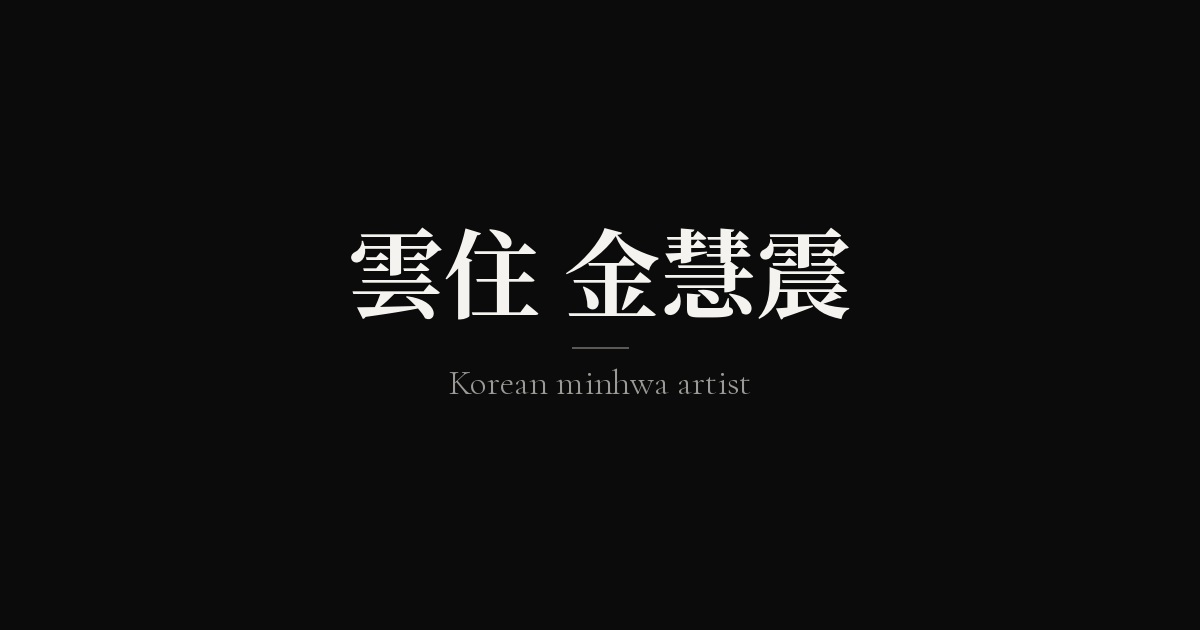
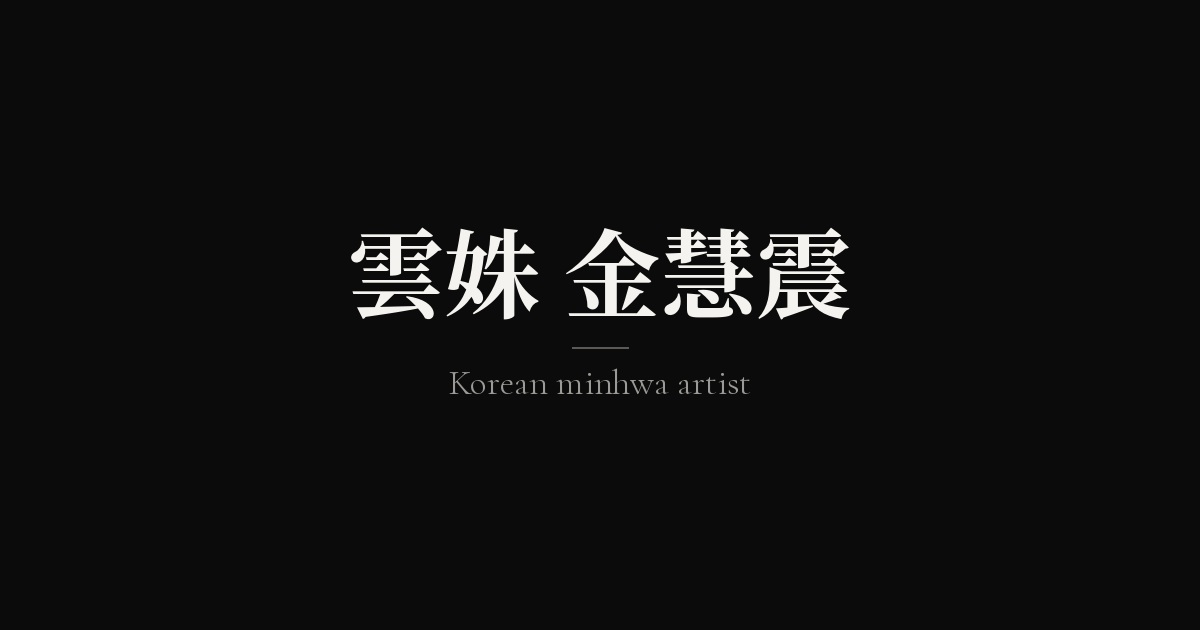
Correct pen-name Hanja from 雲住 to 雲姝.
Replace every 雲住 occurrence with the verified aho spelling 雲姝
and regenerate the default Open Graph plate to match.

Changed region(s): [[0.37, 0.3619, 0.4625, 0.5127]]

diff --git a/lib/content.ts b/lib/content.ts
@@ -122,14 +122,14 @@ export const siteCopy = {
 } as const;
 
 export const pageMeta = {
-  siteName: '雲住 — K-minhwa',
+  siteName: '雲姝 — K-minhwa',
   // Live deployment host until k-minhwa.art is registered and pointed at Vercel.
   // Override with NEXT_PUBLIC_SITE_URL=https://k-minhwa.art after the custom domain resolves.
   siteUrl: 'https://k-minhwa.vercel.app',
   defaultOgImage: '/media/og-default.jpg',
-  defaultOgAlt: '雲住 金慧震 — Korean minhwa artist',
+  defaultOgAlt: '雲姝 金慧震 — Korean minhwa artist',
   artistName: {
-    hanja: '雲住 金慧震',
+    hanja: '雲姝 金慧震',
     hangul: '운주 김혜진',
     en: 'Unjoo Kim Hyejin',
   },
@@ -141,7 +141,7 @@ export const pageMeta = {
     'K-minhwa',
     'minhwa',
     'Korean minhwa',
-    '雲住',
+    '雲姝',
     '金慧震',
     '운주 김혜진',
     'Unjoo Kim Hyejin',
@@ -150,8 +150,8 @@ export const pageMeta = {
   ],
   home: {
     title: {
-      ko: '雲住 — 오래된 상징, 새로운 숨결',
-      en: '雲住 — Old symbols, newly alive',
+      ko: '雲姝 — 오래된 상징, 새로운 숨결',
+      en: '雲姝 — Old symbols, newly alive',
     },
     description: {
       ko: '운주 김혜진의 동시대 민화 아카이브. 전통의 화법과 상징 위에서 새로운 색채와 구성을 선보입니다.',
@@ -160,8 +160,8 @@ export const pageMeta = {
   },
   works: {
     title: {
-      ko: '작품 — 雲住 김혜진',
-      en: 'Works — 雲住 Unjoo Kim Hyejin',
+      ko: '작품 — 雲姝 김혜진',
+      en: 'Works — 雲姝 Unjoo Kim Hyejin',
     },
     description: {
       ko: '운주의 민화 작품 아카이브. 복과 장수, 지혜와 평안의 상징을 오늘의 감각으로 다시 바라봅니다.',
@@ -170,8 +170,8 @@ export const pageMeta = {
   },
   artist: {
     title: {
-      ko: '작가 — 雲住 김혜진',
-      en: 'Artist — 雲住 Unjoo Kim Hyejin',
+      ko: '작가 — 雲姝 김혜진',
+      en: 'Artist — 雲姝 Unjoo Kim Hyejin',
     },
     description: {
       ko: '민화의 전통적 화법과 상징 체계를 바탕으로 작업하는 운주 김혜진의 소개, 이력, 문의.',

diff --git a/app/artist/page.tsx b/app/artist/page.tsx
@@ -24,13 +24,13 @@ export default function Artist() {
   const { artist } = siteCopy;
   return (
     <main>
-      <SiteHeader wordmark="雲住" split edition="" />
+      <SiteHeader wordmark="雲姝" split edition="" />
       <div className="page-intro artist-intro">
         <p className="eyebrow">
           <LocalizedText en={artist.eyebrow.en} ko={artist.eyebrow.ko} />
         </p>
         <p className="artist-name-display">
-          <span className="hanja">雲住 金慧震</span>
+          <span className="hanja">雲姝 金慧震</span>
           <small>운주 김혜진</small>
         </p>
         <h1>
@@ -95,7 +95,7 @@ export default function Artist() {
         </div>
       </section>
       <footer className="site-footer">
-        <span className="hanja">雲住 金慧震</span>
+        <span className="hanja">雲姝 金慧震</span>
         <span> / K—MINHWA</span>
         <Link href="/works">
           <LocalizedText en="WORKS" ko="작품" /> ↗

diff --git a/app/page.tsx b/app/page.tsx
@@ -33,10 +33,10 @@ export default function Home() {
           <HeroMedia />
           <HeroWebgl />
           <HeroParticles />
-          <SiteHeader wordmark="雲住" split edition="" />
+          <SiteHeader wordmark="雲姝" split edition="" />
           <div className="hero-copy">
             <p className="hero-artist-name">
-              <span className="hanja">雲住 金慧震</span>
+              <span className="hanja">雲姝 金慧震</span>
             </p>
             <h1>
               <LocalizedText
@@ -74,7 +74,7 @@ export default function Home() {
             </span>
           </div>
           <p className="sr-only">
-            Hero artwork: a blue-green dragon moving through layered cream and brown clouds, by 雲住 金慧震.
+            Hero artwork: a blue-green dragon moving through layered cream and brown clouds, by 雲姝 金慧震.
           </p>
           <p className="home-colophon">© K-MINHWA UNJOO.</p>
         </section>

diff --git a/app/works/page.tsx b/app/works/page.tsx
@@ -25,10 +25,10 @@ export default function Works() {
   const { works: copy } = siteCopy;
   return (
     <main>
-      <SiteHeader wordmark="雲住" split edition="" />
+      <SiteHeader wordmark="雲姝" split edition="" />
       <div className="page-intro">
         <p className="eyebrow">
-          <LocalizedText en="WORKS / 雲住 金慧震" ko="작품 / 雲住 金慧震" />
+          <LocalizedText en="WORKS / 雲姝 金慧震" ko="작품 / 雲姝 金慧震" />
         </p>
         <h1>
           <LocalizedText
@@ -49,7 +49,7 @@ export default function Works() {
       </div>
       <PublishedWorks />
       <footer className="site-footer">
-        <span className="hanja">雲住 金慧震</span>
+        <span className="hanja">雲姝 金慧震</span>
         <span> / K—MINHWA</span>
         <Link href="/artist">
           <LocalizedText en="ARTIST" ko="작가" /> ↗

diff --git a/app/works/[slug]/page.tsx b/app/works/[slug]/page.tsx
@@ -16,7 +16,7 @@ export async function generateMetadata({ params }: { params: Promise<{ slug: str
   const work = works.find((item) => item.slug === slug);
   if (!work) return {};
   return buildPageMetadata({
-    title: `${work.title.en} · 雲住`,
+    title: `${work.title.en} · 雲姝`,
     description: work.description.en.slice(0, 160),
     path: `/works/${work.slug}`,
     image: work.imageConfirmed ? work.image : undefined,
@@ -36,7 +36,7 @@ export default async function WorkDetail({ params }: { params: Promise<{ slug: s
 
   return (
     <main>
-      <SiteHeader wordmark="雲住" split edition="" />
+      <SiteHeader wordmark="雲姝" split edition="" />
       <section className="detail">
         <div className={`detail-image art-image${work.imageConfirmed ? '' : ' art-image--plate'}`}>
           {work.image.endsWith('.svg') ? (

diff --git a/INTERACTION_GUIDE.md b/INTERACTION_GUIDE.md
@@ -10,7 +10,7 @@ The live page has a persistent compact header, oversized statement typography, l
 - Image reactions: artwork may start with a grayscale veil; hover/focus restores color in 240–420ms and allows max 1.02 scale. Keep crop and all metadata stationary.
 - Background: black canvas remains stable. Optional grayscale grain or luminance shift must be near imperceptible and never compete with a colored artwork.
 - Scroll transitions: labels and text may reveal with 12–24px translation and opacity; large images may use a clip or max 1.03 scale. Duration: 400–700ms. Avoid scroll-jacking. Native scroll is always preserved.
-- Header: persistent split chrome on public routes (home, works, artist, work detail). Work/Artist are the only primary destinations. Admin keeps a separate non-split bar and is not public navigation. The chrome splits into two inset pills: mark + menu on the left, locale toggle on the right. Wordmark is `雲住`.
+- Header: persistent split chrome on public routes (home, works, artist, work detail). Work/Artist are the only primary destinations. Admin keeps a separate non-split bar and is not public navigation. The chrome splits into two inset pills: mark + menu on the left, locale toggle on the right. Wordmark is `雲姝`.
 - Footer: sparse closing panel with mark, location/year, and one onward link; no sitemap wall. The home route has no footer bar; a colophon `© K-MINHWA UNJOO.` sits at the bottom inset.
 - Typography: H1 is the visual event. Home English uses Cormorant Garamond (`Old symbols, newly alive.` with selective italic). Home Korean uses Nanum Myeongjo (`오래된 상징, 새로운 숨결`) with no italic. Hanja always uses Nanum Myeongjo. H2 is a quieter editorial anchor; mono labels provide cataloguing. Keep body measure under ~40rem.
 - Home chrome: both home pills use `border-radius: 999px` and share the same inset as the top edge (18px desktop, 12px mobile). The locale pill’s inner padding is equal on all sides after accounting for the 1px border (7px desktop / 5px mobile around a 42px / 40px toggle). Locale labels use ISO 639-1 (`EN` / `KO`). On desktop, the supporting line and archive CTA sit on the right edge (`right: 6vw`); on mobile they left-align to the main copy column (`left: 5vw`). Hangul `운주 김혜진` is reserved for the artist page.

diff --git a/DESIGN_SYSTEM.md b/DESIGN_SYSTEM.md
@@ -4,7 +4,7 @@
 `#0B0B0B` black canvas · `#F4F3EF` warm white type · `#9B9A96` secondary text · `rgba(244,243,239,.22)` hairlines. No UI color accents.
 
 ## Type
-Manrope is the workhorse sans for navigation and body copy. DM Mono is used for metadata, indexes, and utility labels. The home statement is 명조: Cormorant Garamond for Latin display lines (selective italic on a secondary phrase) and Nanum Myeongjo for Hangul (never italic). Hanja (`雲住`, `金慧震`) uses Nanum Myeongjo in both locales. Display type is fluid with a negative tracking value and compact line-height. The home wordmark is `雲住`. Hangul artist naming (`운주 김혜진`) is reserved for the artist page.
+Manrope is the workhorse sans for navigation and body copy. DM Mono is used for metadata, indexes, and utility labels. The home statement is 명조: Cormorant Garamond for Latin display lines (selective italic on a secondary phrase) and Nanum Myeongjo for Hangul (never italic). Hanja (`雲姝`, `金慧震`) uses Nanum Myeongjo in both locales. Display type is fluid with a negative tracking value and compact line-height. The home wordmark is `雲姝`. Hangul artist naming (`운주 김혜진`) is reserved for the artist page.
 
 ## Layout
 Desktop uses a 12-column grid with 3vw gutters. Editorial modules can intentionally offset or span partial columns. Mobile collapses to a single image column with generous vertical pacing. Spacing units are based on viewport width for exhibition-scale breathing room: 3vw utility, 6vw section edge, 10–16vw editorial separation.

diff --git a/PROJECT.md b/PROJECT.md
@@ -5,7 +5,7 @@ K-minhwa is a contemporary portfolio and moving archive for a Korean minhwa arti
 
 ## Information architecture
 
-- `/` — cinematic homepage for the 雲住 portfolio: hero statement, selected works entry, artist entry point.
+- `/` — cinematic homepage for the 雲姝 portfolio: hero statement, selected works entry, artist entry point.
 - `/works` — editorial index of all works with year, medium, and image-led composition.
 - `/works/[slug]` — work detail with primary media, metadata, and contextual text.
 - `/artist` — statement, biography, exhibitions, awards, and collections.
@@ -23,7 +23,7 @@ No stock image may be presented as a K-minhwa artwork. Until original artwork ph
 - Canonical host: currently `https://k-minhwa.vercel.app` (override with `NEXT_PUBLIC_SITE_URL`).
 - Custom domain `k-minhwa.art` is the intended brand host once registered and attached in Vercel Domains; until DNS resolves, share metadata must not point at it.
 - Favicon / app icons: black field with white Hanja `金`.
-- Default Open Graph image (`/media/og-default.jpg`): black field, centered `雲住 金慧震`, English tagline `Korean minhwa artist`.
+- Default Open Graph image (`/media/og-default.jpg`): black field, centered `雲姝 金慧震`, English tagline `Korean minhwa artist`.
 - Page metadata, sitemap, robots, and JSON-LD emit absolute URLs so shared links resolve to the live host.
 
 
